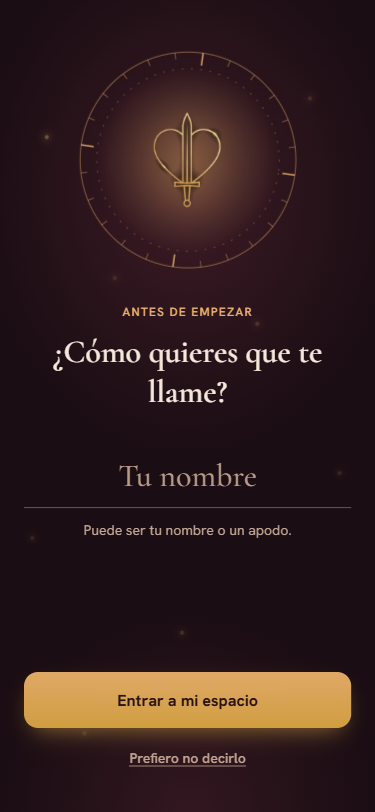
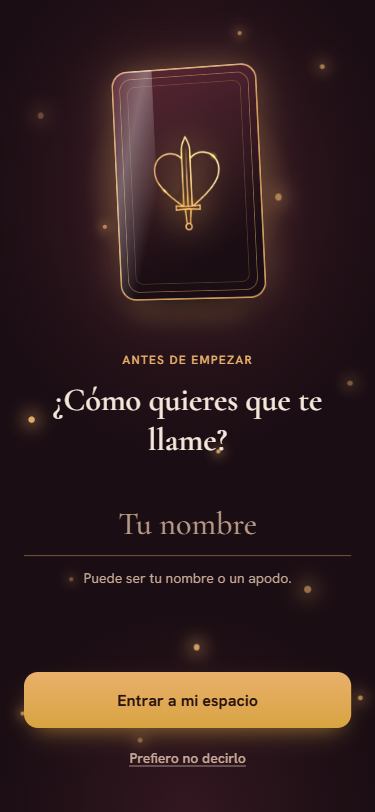
style(bienvenida): carta flotante en vez del círculo y motas de luz más brillantes

diff --git a/components/app/BienvenidaCompra.tsx b/components/app/BienvenidaCompra.tsx
@@ -18,69 +18,78 @@ const MAX_NOMBRE = 30;
 const DURACION_SALUDO_MS = 2400;
 
 // Motas de luz doradas: posiciones fijas (sin azar) para que el servidor y el navegador coincidan.
+// "g" = tamaño (px) del punto; el brillo (resplandor) crece con él.
 const MOTAS = [
-  { x: 12, y: 18, t: 7, d: 0 },
-  { x: 82, y: 12, t: 9, d: 1.2 },
-  { x: 30, y: 34, t: 8, d: 2.1 },
-  { x: 68, y: 40, t: 10, d: 0.6 },
-  { x: 90, y: 58, t: 7, d: 1.8 },
-  { x: 8, y: 66, t: 9, d: 2.6 },
-  { x: 48, y: 78, t: 8, d: 0.9 },
-  { x: 76, y: 84, t: 10, d: 1.5 },
-  { x: 22, y: 90, t: 7, d: 2.3 },
+  { x: 10, y: 14, t: 6, d: 0, g: 6 },
+  { x: 84, y: 10, t: 8, d: 1.2, g: 5 },
+  { x: 26, y: 30, t: 7, d: 2.1, g: 4 },
+  { x: 72, y: 26, t: 9, d: 0.6, g: 7 },
+  { x: 92, y: 48, t: 6, d: 1.8, g: 5 },
+  { x: 6, y: 54, t: 8, d: 2.6, g: 6 },
+  { x: 18, y: 72, t: 7, d: 0.9, g: 4 },
+  { x: 50, y: 82, t: 9, d: 1.5, g: 6 },
+  { x: 80, y: 74, t: 6, d: 2.3, g: 7 },
+  { x: 36, y: 92, t: 8, d: 0.3, g: 5 },
+  { x: 62, y: 6, t: 7, d: 1.9, g: 4 },
+  { x: 94, y: 88, t: 9, d: 0.8, g: 5 },
+  { x: 4, y: 90, t: 6, d: 2.8, g: 4 },
+  { x: 56, y: 58, t: 10, d: 1.1, g: 4 },
 ] as const;
-
-const MARCAS = Array.from({ length: 24 }, (_, i) => i);
 
 function limpiarNombre(valor: string): string {
   return valor.replace(/[\u0000-\u001f\u007f<>]/g, '').replace(/\s+/g, ' ').trim().slice(0, MAX_NOMBRE);
 }
 
-function Emblema({ latido }: { latido: boolean }) {
+/** La carta de LUMA flotando: reverso del mazo (ciruela, doble marco dorado, emblema) con balanceo 3D,
+ *  un destello que la cruza y un resplandor que respira debajo. */
+function CartaFlotante({ vivo }: { vivo: boolean }) {
   return (
-    <div className="relative flex size-56 items-center justify-center" aria-hidden="true">
+    <div className="relative flex h-[272px] w-full items-center justify-center" aria-hidden="true" style={{ perspective: '900px' }}>
       <motion.div
-        className="absolute inset-0 rounded-full"
+        className="absolute size-[260px] rounded-full"
         style={{
           background:
-            'radial-gradient(closest-side, color-mix(in oklab, var(--accent-lite) 38%, transparent), transparent 72%)',
+            'radial-gradient(closest-side, color-mix(in oklab, var(--accent-lite) 46%, transparent), transparent 72%)',
         }}
-        animate={latido ? { scale: [1, 1.16, 1], opacity: [0.75, 1, 0.75] } : undefined}
+        animate={vivo ? { scale: [1, 1.18, 1], opacity: [0.7, 1, 0.7] } : undefined}
         transition={{ duration: 5, repeat: Infinity, ease: 'easeInOut' }}
       />
-      <motion.svg
-        viewBox="0 0 216 216"
-        className="absolute inset-0 size-full"
-        animate={latido ? { rotate: 360 } : undefined}
-        transition={{ duration: 90, repeat: Infinity, ease: 'linear' }}
+      <motion.div
+        className="absolute bottom-1 h-4 w-28 rounded-full blur-md"
+        style={{ background: 'color-mix(in oklab, var(--accent-lite) 55%, transparent)' }}
+        animate={vivo ? { scaleX: [1, 0.75, 1], opacity: [0.55, 0.25, 0.55] } : undefined}
+        transition={{ duration: 6, repeat: Infinity, ease: 'easeInOut' }}
+      />
+      <motion.div
+        className="relative flex h-[232px] w-[148px] items-center justify-center overflow-hidden rounded-2xl"
+        style={{
+          transformStyle: 'preserve-3d',
+          background: 'linear-gradient(160deg, color-mix(in oklab, var(--bloom-vino) 80%, var(--bg)), var(--bg) 78%)',
+          boxShadow:
+            '0 24px 36px -16px rgb(10 5 8 / 0.85), 0 0 40px -6px color-mix(in oklab, var(--accent-lite) 55%, transparent), inset 0 1px 0 rgb(255 255 255 / 0.28), inset 0 0 0 1.5px color-mix(in oklab, var(--accent-lite) 90%, transparent)',
+        }}
+        animate={vivo ? { y: [0, -14, 0], rotateZ: [-3, 3, -3], rotateY: [-12, 12, -12] } : undefined}
+        transition={{ duration: 7, repeat: Infinity, ease: 'easeInOut' }}
       >
-        <circle cx="108" cy="108" r="104" fill="none" stroke="var(--accent-lite)" strokeOpacity="0.45" strokeWidth="1" />
-        <circle
-          cx="108"
-          cy="108"
-          r="88"
-          fill="none"
-          stroke="var(--accent-lite)"
-          strokeOpacity="0.28"
-          strokeWidth="1"
-          strokeDasharray="2 7"
+        <span
+          className="absolute inset-2 rounded-xl"
+          style={{ border: '1px solid color-mix(in oklab, var(--accent-lite) 50%, transparent)' }}
         />
-        {MARCAS.map((i) => (
-          <line
-            key={i}
-            x1="108"
-            y1="4"
-            x2="108"
-            y2={i % 6 === 0 ? 16 : 10}
-            stroke="var(--accent-lite)"
-            strokeOpacity={i % 6 === 0 ? 0.85 : 0.4}
-            strokeWidth={i % 6 === 0 ? 1.5 : 1}
-            transform={`rotate(${i * 15} 108 108)`}
+        <span
+          className="absolute inset-4 rounded-lg"
+          style={{ border: '1px solid color-mix(in oklab, var(--accent-lite) 24%, transparent)' }}
+        />
+        {/* eslint-disable-next-line @next/next/no-img-element */}
+        <img src="/luma-icon.png" alt="" className="relative h-24 w-auto brightness-125 drop-shadow-[0_0_18px_rgba(224,176,92,0.7)]" />
+        {vivo && (
+          <motion.span
+            className="absolute inset-y-0 -left-1/2 w-1/2"
+            style={{ background: 'linear-gradient(105deg, transparent 20%, rgb(255 255 255 / 0.32) 50%, transparent 80%)' }}
+            animate={{ x: ['0%', '420%'] }}
+            transition={{ duration: 3.4, repeat: Infinity, repeatDelay: 2.2, ease: 'easeInOut' }}
           />
-        ))}
-      </motion.svg>
-      {/* eslint-disable-next-line @next/next/no-img-element */}
-      <img src="/luma-icon.png" alt="" className="relative h-24 w-auto drop-shadow-[0_0_24px_rgba(224,176,92,0.55)]" />
+        )}
+      </motion.div>
     </div>
   );
 }
@@ -190,9 +199,15 @@ export function BienvenidaCompra({ onNombre }: { onNombre?: (nombre: string) => 
               MOTAS.map((m, i) => (
                 <motion.span
                   key={i}
-                  className="absolute size-1 rounded-full bg-[var(--accent-lite)]"
-                  style={{ left: `${m.x}%`, top: `${m.y}%`, boxShadow: '0 0 8px 1px var(--accent-lite)' }}
-                  animate={{ y: [0, -18, 0], opacity: [0.15, 0.85, 0.15] }}
+                  className="absolute rounded-full bg-[var(--accent-lite)]"
+                  style={{
+                    left: `${m.x}%`,
+                    top: `${m.y}%`,
+                    width: m.g,
+                    height: m.g,
+                    boxShadow: `0 0 ${m.g * 3}px ${m.g / 2}px var(--accent-lite)`,
+                  }}
+                  animate={{ y: [0, -22, 0], x: [0, 6, 0], opacity: [0.35, 1, 0.35] }}
                   transition={{ duration: m.t, delay: m.d, repeat: Infinity, ease: 'easeInOut' }}
                 />
               ))}
@@ -212,7 +227,7 @@ export function BienvenidaCompra({ onNombre }: { onNombre?: (nombre: string) => 
                     animate={{ opacity: 1, scale: 1 }}
                     transition={{ duration: 1.1, ease: [0.16, 1, 0.3, 1] }}
                   >
-                    <Emblema latido={mov} />
+                    <CartaFlotante vivo={mov} />
                   </motion.div>
 
                   <motion.p
@@ -300,7 +315,7 @@ export function BienvenidaCompra({ onNombre }: { onNombre?: (nombre: string) => 
                     animate={mov ? { scale: [0.9, 1.12] } : undefined}
                     transition={{ duration: 2.2, ease: 'easeOut' }}
                   >
-                    <Emblema latido={mov} />
+                    <CartaFlotante vivo={mov} />
                   </motion.div>
                   <h1 className="mt-8 text-[32px] font-semibold leading-tight text-[var(--text-primary)] [font-family:var(--font-display)]">
                     {nombreFinal ? (

diff --git a/ESTADO.md b/ESTADO.md
@@ -1039,3 +1039,5 @@ sabemos / qué observamos / posible riesgo / pregunta para ti / qué podrías re
 🔄 2026-10-15: /entrar con sesión abierta redirige a /app (o /paywall si ?desde=paywall) en proxy.ts. Motivo: la dueña, ya logueada, veía de nuevo "escribe tu correo" al abrir el enlace Entrar de la landing. Sin sesión se comprobó que /entrar sigue mostrándose (200); el caso con sesión NO se pudo ver en pantalla. Pendiente además: instalación como app (manifest) y entrada con Google / código de 6 dígitos. Sin publicar.
 
 🔄 2026-10-15: Más — (1) muestra el apodo elegido en la bienvenida (user_metadata.apodo) antes que profiles.nombre; (2) con plan activo dice "Plan activo" en vez de "Elige tu plan" (estaba invertido: con plan, gratisDisponible=false mostraba el enlace de planes). Reportado por la dueña con captura. Sin publicar.
+
+🔄 2026-10-15: Bienvenida — el círculo/anillo se cambió por la CARTA de LUMA flotando (balanceo 3D, destello, resplandor que respira) y las motas son más grandes y mucho más brillantes (14). Captura actualizada bienvenida-paso1-375. Sin publicar.
